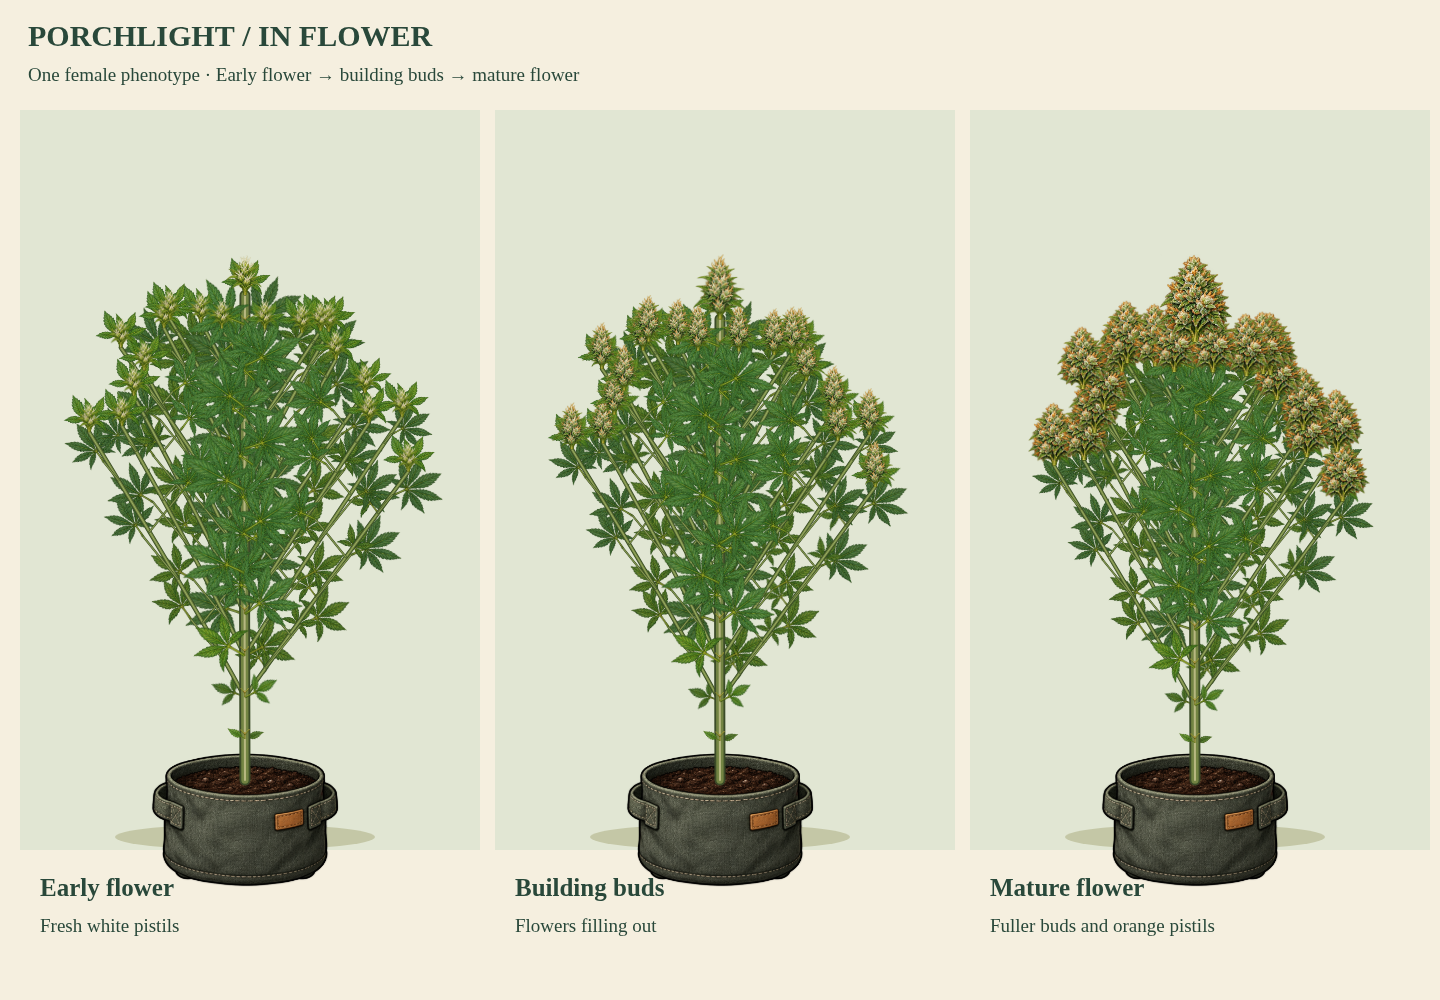
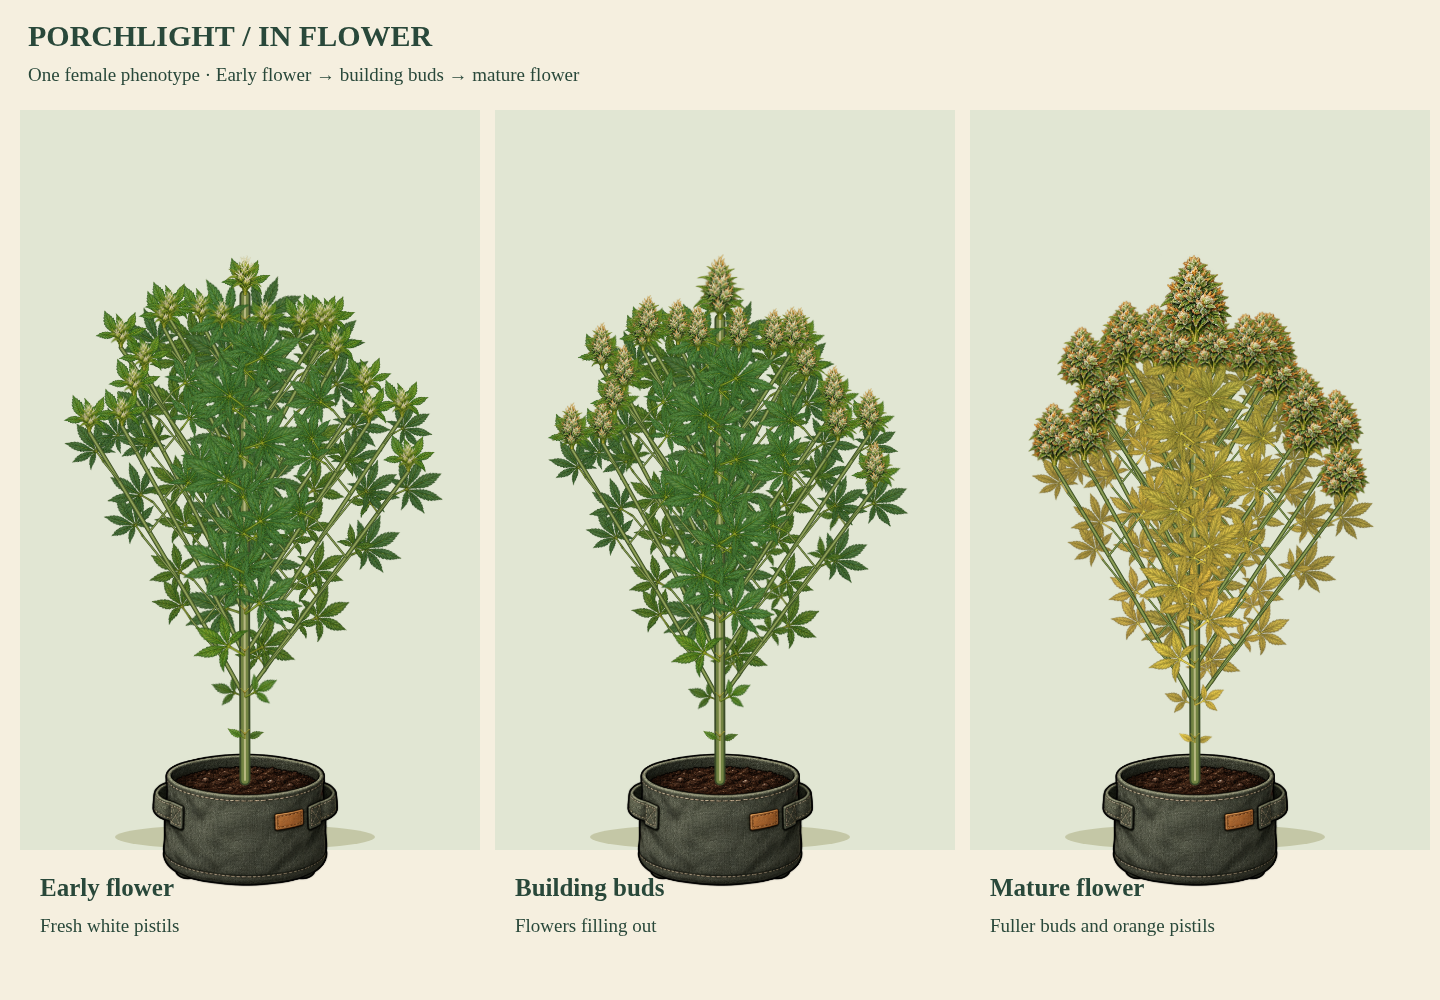
Preview phenotype-aware late flower senescence on Porchlight

Changed region(s): [[0.7188, 0.341, 0.9688, 0.713]]

diff --git a/graphics/plants/porchlight/sources/renderer.js b/graphics/plants/porchlight/sources/renderer.js
@@ -2,15 +2,25 @@
 (()=>{
  'use strict';
  const DATA=__PORCHLIGHT_COMPONENT_DATA__,Model=window.PorchlightModel,image=new Image();let loaded=false;
- function part(c,role,x,y,length,angle=0,width=null){const a=DATA.parts[role];if(!a||!loaded||length<=0)return;const k=length/a.crop[3],w=width??a.crop[2]*k,h=length;c.save();c.translate(x,-y);c.rotate(angle);c.imageSmoothingEnabled=true;c.imageSmoothingQuality='high';c.drawImage(image,...a.crop,-a.attach[0]/a.crop[2]*w,-a.attach[1]/a.crop[3]*h,w,h);c.restore();}
+ const finishCache=new Map();
+ function tintedPart(role,finish){
+  const amount=Math.round(finish.amount*12)/12,key=role+':'+finish.palette+':'+amount;
+  if(finishCache.has(key))return finishCache.get(key);
+  const a=DATA.parts[role],cv=document.createElement('canvas');cv.width=a.crop[2];cv.height=a.crop[3];
+  const c=cv.getContext('2d');c.drawImage(image,...a.crop,0,0,cv.width,cv.height);
+  const pixels=c.getImageData(0,0,cv.width,cv.height),d=pixels.data;
+  for(let i=0;i<d.length;i+=4){if(!d[i+3])continue;const light=Math.min(1.4,(d[i]*.2126+d[i+1]*.7152+d[i+2]*.0722)/112);for(let k=0;k<3;k++)d[i+k]=d[i+k]*(1-amount)+Math.min(255,finish.rgb[k]*light)*amount;}
+  c.putImageData(pixels,0,0);finishCache.set(key,cv);return cv;
+ }
+ function part(c,role,x,y,length,angle=0,width=null,finish=null){const a=DATA.parts[role];if(!a||!loaded||length<=0)return;const k=length/a.crop[3],w=width??a.crop[2]*k,h=length;c.save();c.translate(x,-y);c.rotate(angle);c.imageSmoothingEnabled=true;c.imageSmoothingQuality='high';const source=finish?.amount>0?tintedPart(role,finish):null;if(source)c.drawImage(source,-a.attach[0]/a.crop[2]*w,-a.attach[1]/a.crop[3]*h,w,h);else c.drawImage(image,...a.crop,-a.attach[0]/a.crop[2]*w,-a.attach[1]/a.crop[3]*h,w,h);c.restore();}
  function stroke(c,points,width,color){c.strokeStyle=color;c.lineWidth=width;c.lineCap='round';c.lineJoin='round';c.beginPath();points.forEach((p,i)=>c[i?'lineTo':'moveTo'](p.x,-p.y));c.stroke();}
  function branch(c,b){c.lineCap='round';c.beginPath();c.moveTo(b.start.x,-b.start.y);c.quadraticCurveTo(b.control.x,-b.control.y,b.end.x,-b.end.y);c.lineWidth=b.width*1.6;c.strokeStyle='#394b24';c.stroke();c.lineWidth=b.width;c.strokeStyle='#6f8540';c.stroke();c.lineWidth=b.width*.30;c.strokeStyle='#a7b16b';c.stroke();}
  function draw(c,p,x,y,pixelsPerInch=4,t=0,wind=1,{model=null,reduced=false}={}){
   if(!loaded)return;const g=model||Model.build(p,{}, {parts:DATA.parts}),pose=Model.pose(g,p,t,wind,reduced);
   c.save();c.translate(x,y);c.scale(pixelsPerInch,pixelsPerInch);
-  const H=g.height,trunk=g.joints.map(j=>pose.joints.get(j.id)),trunkWidth=Math.max(.18,Math.min(1.2,H*.014));
+  const H=g.height,trunk=g.joints.map(j=>pose.joints.get(j.id)),trunkWidth=Math.max(.18,Math.min(1.2,H*.014)),finish=Model.senescence(p);
   if(p.staked)for(const side of [-1,1])part(c,'bamboo',side*H*.12,0,H*.78,0,1.15);
-  function leaf(o){if(o.removed)return;const a=pose.organs.get(o.id);c.save();const lower=a.y<H*.48,lowFood=p.nutr<25&&lower,sick=p.health<50;if(lowFood||sick)c.filter='sepia(.48) saturate(.78) hue-rotate(-20deg) brightness(1.08)';else if(o.z<0)c.filter='brightness(.86) saturate(.92)';part(c,o.role,a.x,a.y,o.length,a.angle);c.restore();}
+  function leaf(o){if(o.removed)return;const a=pose.organs.get(o.id);c.save();const lower=a.y<H*.48,lowFood=p.nutr<25&&lower,sick=p.health<50;if(lowFood||sick)c.filter='sepia(.48) saturate(.78) hue-rotate(-20deg) brightness(1.08)';else if(o.z<0)c.filter='brightness(.86) saturate(.92)';const leafFinish={...finish,amount:Math.min(1,finish.amount*(.78+.35*(1-a.y/H)+.10*Math.sin(o.id.length*5.3)))};part(c,o.role,a.x,a.y,o.length,a.angle,null,leafFinish);c.restore();}
   for(const o of g.organs.filter(o=>o.kind==='leaf'&&o.z<0))leaf(o);
   for(const b of pose.branches.values())if(!b.cut)branch(c,b);
   stroke(c,trunk,trunkWidth*1.5,'#3b4b28');stroke(c,trunk,trunkWidth,'#738443');stroke(c,trunk,trunkWidth*.28,'#b6b780');

diff --git a/review/porchlight-flower/README.md b/review/porchlight-flower/README.md
@@ -5,3 +5,9 @@ Status: awaiting user review; not pushed or installed in the production renderer
 Reproduce with `node tools/preview-porchlight-flower.cjs`. This opens the current `index.html` in a disposable browser and injects the existing component prototype. Early, mid and late female flowering inputs use stages 7, 8 and 10, the same phenotype seed, 50-inch height, 11 nodes, healthy conditions and natural training. Heights are controlled study inputs rather than a growth timeline. The full renderer has not yet completed training/care integration.
 
 The comparison uses the approved leaf kit and its early/mid/late flower components, with 19 attached flower sites per plant. The detail sheet enlarges those same flower components. Browser capture verified no page errors. No production assets or game/save code were modified.
+
+## Late-flower senescence study
+
+`porchlight-late-flower-senescence.png` shows the same 50-inch Porchlight phenotype at late flower (stage 9), with an explicit finish-color study input of `visualState.senescence: 1`. This is not a literal change to the game's days per stage. Porchlight's existing Forest green phenotype maps to gold; other expressed color names select ochre, lavender, purple, deep purple, rose or red, while the existing ink mutation selects near-black purple. No new inheritance is rolled.
+
+Finishing color changes the painted fan-leaf RGB while preserving source alpha, veins and shading. Buds and stems retain their original art. Variation by canopy height leaves upper fans somewhat greener than lower fans. It is independent of health, nutrition, water and stress, which retain separate rendering effects. Veg/early/midflower are gated out. The prototype supports continuous finish progress but still needs a native simulation adapter before production use.
